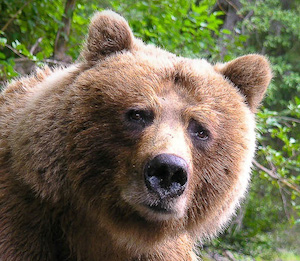
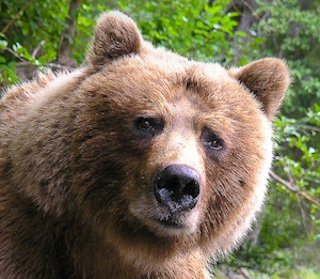
style:

diff --git a/Round_River_Map_Project/css/style.css b/Round_River_Map_Project/css/style.css
@@ -7,20 +7,21 @@
 
 html,
 body {
-  font-family: Arial, sans-serif;
+  background-color: #000;
+/*  font-family: Arial, sans-serif;*/
   height: 100%;
   margin: 0;
   padding: 0;
 }
 
 .container {
-  height: 100%;
+/*  height: 100%;*/
   position: relative;
 }
 
-input {
+/*input {
   font-size: 12px;
-}
+}*/
 
 h1 {
   color: #525454;
@@ -39,13 +40,13 @@ a:hover {color: #005496;}
 a:active {color: #c80b32;}
 
 .button {
-  background-color: #005496; /* Green */
+  background-color: #005496;
   color: white;
   border-radius: 8px;
   width: 48%;
   display: block;
   padding: 5px;
-  margin: 10px;
+  margin: 5px;
 }
 
 /*#hide-listings,
@@ -55,19 +56,22 @@ a:active {color: #c80b32;}
 }*/
 
 #map {
-  bottom:0px;
+  top: 0px;
   height: 100%;
-  left: 362px;
+  left: 365px;
+  border-radius: 14px;
   position: absolute;
   right: 0px;
+  margin: 3px;
 }
 
 .options-box {
+  margin: 3px;
   background: #af9a6b;
   border: 1px solid #999;
-  border-radius: 3px;
+  border-radius: 14px;
   display: block;
-  height: 100%;
+/*  height: 100%;*/
   line-height: 35px;
   padding: 10px 10px 30px 10px;
   text-align: left;
@@ -75,11 +79,20 @@ a:active {color: #c80b32;}
 }
 
 .contact {
-  margin: 0px 20px;
+/*  margin: 0px 20px;*/
 }
 
 #about {
+  text-align: right;
+  text-decoration: none;
+}
 
-text-align: right;
-text-decoration: none;
+#social {
+  margin: 0px 20px 10px 20px;
+}
+
+#hero {
+  border-radius: 14px;
+  border: 3px solid #005496;
+  margin-left: 7px;
 }

diff --git a/Round_River_Map_Project/index.html b/Round_River_Map_Project/index.html
@@ -21,7 +21,7 @@ Map created for:
  -->
   <head>
     <meta charset="UTF-8">
-    <meta name="viewport" content="width=device-width,initial-scale=1.0, minimum-scale=1.0">
+    <meta name="viewport" content="width=device-width,initial-scale=1.0, minimum-scale=1.0"><link rel="stylesheet" id="vc_google_fonts_merriweather_sans300300italicregularitalic700700italic800800italic-css" href="//fonts.googleapis.com/css?family=Merriweather+Sans%3A300%2C300italic%2Cregular%2Citalic%2C700%2C700italic%2C800%2C800italic&amp;subset=latin&amp;ver=4.5.3" type="text/css" media="all">
     <link rel="stylesheet" href="css/style.css">
     <script src= "js/knockout-3.4.0.js"></script>
     <script src= "js/app.js"></script>
@@ -47,8 +47,8 @@ Map created for:
             <a id="about" href="http://www.roundriver.org/about-us" title="About Us">
               <h2>About Us</h2>
             </a>
-            <img src="images/social-media-icons-6.png">
-            <img src="images/great-bear-01.jpg">
+            <img id="social" src="images/social-media-icons-6.png">
+            <img id="hero" src="images/great-bear-01.jpg">
         </div>
       </div>
       <div id="map"></div>
